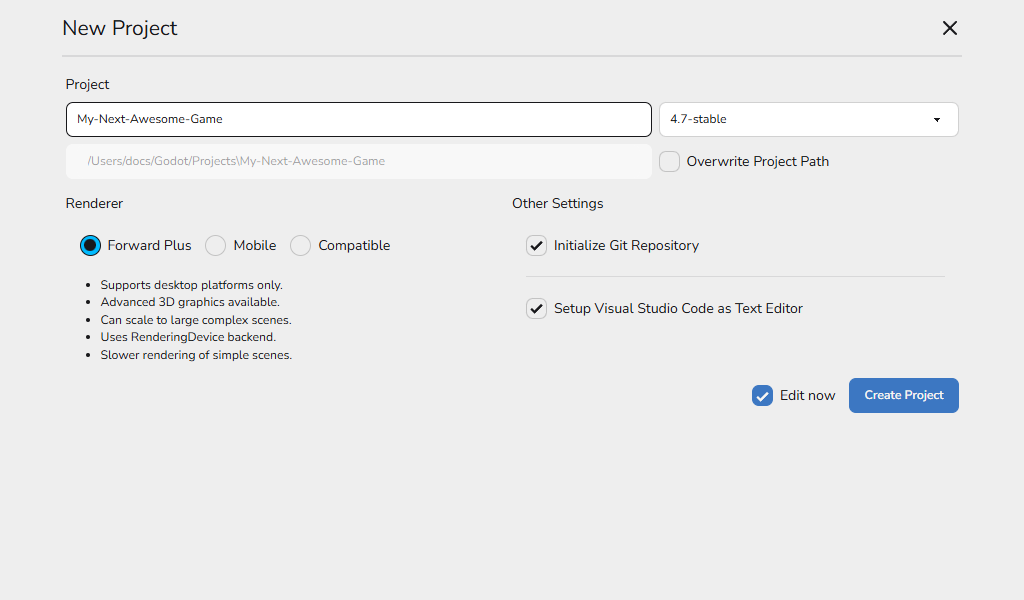
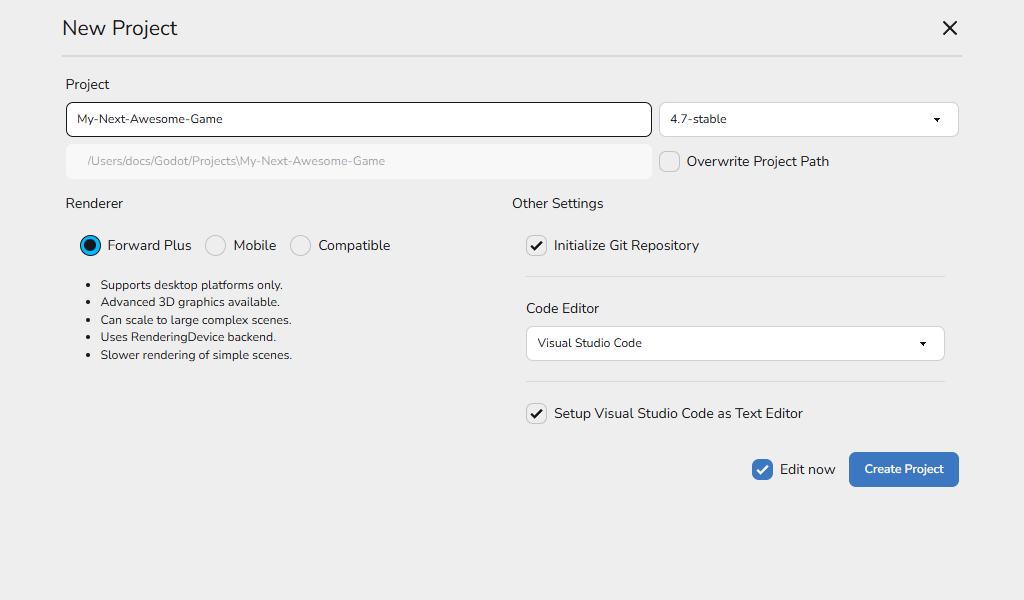
feat(projects): add code editor selection to project creation

Changed region(s): [[0.5312, 0.63, 0.9375, 0.72], [0.5, 0.51, 0.7812, 0.6], [0.7188, 0.75, 0.9375, 0.81]]

diff --git a/renderer/src/views/subViews/createProject.subview.tsx b/renderer/src/views/subViews/createProject.subview.tsx
@@ -1,14 +1,23 @@
-import type { CachedTool, RendererType } from '@shared/contracts';
+import type {
+    CachedTool,
+    CodeEditorIntegrationSettings,
+    RendererType,
+} from '@shared/contracts';
 import { CircleHelp, X } from 'lucide-react';
 import { useCallback, useEffect, useMemo, useRef, useState } from 'react';
 import { useTranslation } from 'react-i18next';
 import { appBridge } from '../../bridge.ts';
 import { WaitingForDialogOverlay } from '../../components/waitingForDialogOverlay.component';
 import { useAlerts } from '../../hooks/useAlerts';
+import { useCodeEditorIntegrations } from '../../hooks/useCodeEditorIntegrations';
 import { useFileSystem } from '../../hooks/useFileSystem';
 import { usePreferences } from '../../hooks/usePreferences';
 import { useProjects } from '../../hooks/useProjects';
 import { useRelease } from '../../hooks/useRelease';
+import {
+    codeEditorIdToLegacyVSCodeFlag,
+    legacyVSCodeFlagToCodeEditorId,
+} from '../../models/codeEditorIntegration.model';
 import { CreateProjectActions } from './createProject/components/createProjectActions.component';
 import { CreateProjectProjectSection } from './createProject/components/createProjectProjectSection.component';
 import { CreateProjectRendererSection } from './createProject/components/createProjectRendererSection.component';
@@ -47,6 +56,10 @@ export const CreateProjectSubView: React.FC<SubViewProps> = ({ onClose }) => {
     const [withGit, setWithGit] = useState<boolean>(true);
     const [withVSCode, setWithVSCode] = useState<boolean>(true);
     const [loadingTools, setLoadingTools] = useState<boolean>(true);
+    const [codeEditorSettings, setCodeEditorSettings] = useState<
+        CodeEditorIntegrationSettings[]
+    >([]);
+    const [loadingCodeEditors, setLoadingCodeEditors] = useState<boolean>(true);
     const inputNameRef = useRef<HTMLInputElement>(null);
     const overwritePathCheckRequestRef = useRef<number>(0);
     const overwriteBasePathInitializedRef = useRef<boolean>(false);
@@ -55,6 +68,7 @@ export const CreateProjectSubView: React.FC<SubViewProps> = ({ onClose }) => {
     const { installedReleases, downloadingReleases } = useRelease();
     const { createProject, launchProject } = useProjects();
     const { pathExists } = useFileSystem();
+    const { listIntegrationSettings } = useCodeEditorIntegrations();
     const { preferences, platform } = usePreferences();
     const pathSeparator = platform === 'win32' ? '\\' : '/';
     const defaultOverwriteBasePath = preferences?.projects_location ?? '';
@@ -253,12 +267,38 @@ export const CreateProjectSubView: React.FC<SubViewProps> = ({ onClose }) => {
     }, []);
 
     useEffect(() => {
-        if (tools.length === 0) return;
+        let active = true;
+
+        listIntegrationSettings()
+            .then((settings) => {
+                if (active) {
+                    setCodeEditorSettings(settings);
+                }
+            })
+            .catch(() => {
+                if (active) {
+                    setCodeEditorSettings([]);
+                }
+            })
+            .finally(() => {
+                if (active) {
+                    setLoadingCodeEditors(false);
+                }
+            });
+
+        return () => {
+            active = false;
+        };
+    }, [listIntegrationSettings]);
+
+    useEffect(() => {
+        if (loadingTools) return;
+
         const hasGit = hasTool('Git');
         const hasVSCode = hasTool('VSCode');
         setWithGit(hasGit);
         setWithVSCode(hasVSCode);
-    }, [hasTool, tools]);
+    }, [hasTool, loadingTools]);
 
     const showVSCodeHelp = () => {
         addAlert(
@@ -363,8 +403,20 @@ export const CreateProjectSubView: React.FC<SubViewProps> = ({ onClose }) => {
                             vsCodeAvailable={vsCodeAvailable}
                             withGit={withGit}
                             withVSCode={withVSCode}
+                            loadingCodeEditors={loadingCodeEditors}
                             onWithGitChange={setWithGit}
                             onWithVSCodeChange={setWithVSCode}
+                            codeEditorSettings={codeEditorSettings}
+                            codeEditorId={legacyVSCodeFlagToCodeEditorId(
+                                withVSCode,
+                            )}
+                            onCodeEditorIdChange={(codeEditorId) =>
+                                setWithVSCode(
+                                    codeEditorIdToLegacyVSCodeFlag(
+                                        codeEditorId,
+                                    ),
+                                )
+                            }
                             onVSCodeHelp={showVSCodeHelp}
                         />
                     </div>

diff --git a/renderer/src/views/subViews/createProject/components/createProjectToolOptionsSection.component.tsx b/renderer/src/views/subViews/createProject/components/createProjectToolOptionsSection.component.tsx
@@ -1,3 +1,7 @@
+import type {
+    CodeEditorId,
+    CodeEditorIntegrationSettings,
+} from '@shared/contracts';
 import clsx from 'clsx';
 import { CircleHelp } from 'lucide-react';
 import type React from 'react';
@@ -7,11 +11,15 @@ type Translate = (key: string) => string;
 type CreateProjectToolOptionsSectionProps = {
     t: Translate;
     loadingTools: boolean;
+    loadingCodeEditors: boolean;
     gitAvailable: boolean;
     vsCodeAvailable: boolean;
+    codeEditorSettings: CodeEditorIntegrationSettings[];
+    codeEditorId: CodeEditorId | null;
     withGit: boolean;
     withVSCode: boolean;
     onWithGitChange: (enabled: boolean) => void;
+    onCodeEditorIdChange: (codeEditorId: CodeEditorId | null) => void;
     onWithVSCodeChange: (enabled: boolean) => void;
     onVSCodeHelp: () => void;
 };
@@ -21,26 +29,30 @@ export const CreateProjectToolOptionsSection: React.FC<
 > = ({
     t,
     loadingTools,
+    loadingCodeEditors,
     gitAvailable,
     vsCodeAvailable,
+    codeEditorSettings,
+    codeEditorId,
     withGit,
     withVSCode,
     onWithGitChange,
     onWithVSCodeChange,
+    onCodeEditorIdChange,
     onVSCodeHelp,
 }) => (
     <div className="flex-1">
         <div className="flex flex-col gap-2">
             <h2 className="text-md flex items-center gap-4">
                 {t('otherSettings.title')}{' '}
-                {loadingTools && (
+                {(loadingTools || loadingCodeEditors) && (
                     <span className="loading loading-dots loading-xs"></span>
                 )}
             </h2>
 
             <div
                 className={clsx('flex flex-col gap-4 p-4 ', {
-                    invisible: loadingTools,
+                    invisible: loadingTools || loadingCodeEditors,
                 })}
             >
                 <label className="flex cursor-pointer gap-2 items-center">
@@ -63,6 +75,45 @@ export const CreateProjectToolOptionsSection: React.FC<
 
                 <div className="divider m-0"></div>
 
+                <label className="flex flex-col gap-2">
+                    <span>{t('otherSettings.codeEditor.label')}</span>
+                    <select
+                        data-testid="selectCreateProjectCodeEditor"
+                        className="select select-bordered w-full"
+                        disabled={loadingCodeEditors}
+                        value={codeEditorId ?? ''}
+                        onChange={(event) =>
+                            onCodeEditorIdChange(
+                                event.target.value === ''
+                                    ? null
+                                    : (event.target.value as CodeEditorId),
+                            )
+                        }
+                    >
+                        <option value="">
+                            {t('otherSettings.codeEditor.none')}
+                        </option>
+                        {codeEditorSettings.map((settings) => {
+                            const unavailableReason = !settings.enabled
+                                ? t('otherSettings.codeEditor.disabled')
+                                : settings.installation
+                                  ? null
+                                  : t('otherSettings.codeEditor.notFound');
+
+                            return (
+                                <option
+                                    key={settings.integration.id}
+                                    value={settings.integration.id}
+                                    disabled={unavailableReason !== null}
+                                >
+                                    {`${settings.integration.displayName}${unavailableReason ? ` (${unavailableReason})` : ''}`}
+                                </option>
+                            );
+                        })}
+                    </select>
+                </label>
+
+                <div className="divider m-0"></div>
                 <label className="flex cursor-pointer gap-2 items-center">
                     <input
                         type="checkbox"

diff --git a/renderer/src/views/subViews/createProject/components/createProjectToolOptionsSection.component.test.tsx b/renderer/src/views/subViews/createProject/components/createProjectToolOptionsSection.component.test.tsx
@@ -1,0 +1,109 @@
+import type { CodeEditorIntegrationSettings } from '@shared/contracts';
+import { renderToStaticMarkup } from 'react-dom/server';
+import { describe, expect, it, vi } from 'vitest';
+import { CreateProjectToolOptionsSection } from './createProjectToolOptionsSection.component';
+
+const labels: Record<string, string> = {
+    'otherSettings.title': 'Other Settings',
+    'otherSettings.initGit': 'Initialize Git Repository',
+    'otherSettings.gitNotInstalled': 'Git is not installed',
+    'otherSettings.codeEditor.label': 'Code Editor',
+    'otherSettings.codeEditor.none': 'None',
+    'otherSettings.codeEditor.disabled': 'Disabled',
+    'otherSettings.codeEditor.notFound': 'Not found',
+    'otherSettings.setupVSCode': 'Setup Visual Studio Code as Text Editor',
+    'otherSettings.vscodeNotInstalled': 'Visual Studio Code is not installed',
+};
+
+const availableVSCodeSettings: CodeEditorIntegrationSettings = {
+    integration: {
+        id: 'vscode',
+        displayName: 'Visual Studio Code',
+        capabilities: {
+            textEditor: true,
+            dotnet: true,
+        },
+    },
+    enabled: true,
+    customPath: null,
+    defaultExecFlags: '{project} --goto {file}:{line}:{col}',
+    execFlagsOverride: null,
+    resolvedExecFlags: '{project} --goto {file}:{line}:{col}',
+    installation: {
+        integrationId: 'vscode',
+        path: '/usr/bin/code',
+        version: '1.95.0',
+    },
+    resolvedGodotExecPath: '/usr/bin/code',
+};
+
+const t = (key: string) => labels[key] ?? key;
+
+function renderSection(
+    codeEditorSettings: CodeEditorIntegrationSettings[],
+    codeEditorId: 'vscode' | null,
+) {
+    return renderToStaticMarkup(
+        <CreateProjectToolOptionsSection
+            t={t}
+            loadingTools={false}
+            loadingCodeEditors={false}
+            gitAvailable
+            vsCodeAvailable
+            codeEditorSettings={codeEditorSettings}
+            codeEditorId={codeEditorId}
+            withGit
+            withVSCode={codeEditorId === 'vscode'}
+            onWithGitChange={vi.fn()}
+            onCodeEditorIdChange={vi.fn()}
+            onWithVSCodeChange={vi.fn()}
+            onVSCodeHelp={vi.fn()}
+        />,
+    );
+}
+
+describe('CreateProjectToolOptionsSection', () => {
+    it('renders an editor-neutral selector beside the legacy VS Code option', () => {
+        const html = renderSection([availableVSCodeSettings], 'vscode');
+
+        expect(html).toContain('data-testid="selectCreateProjectCodeEditor"');
+        expect(html).toContain('<option value="">None</option>');
+        expect(html).toContain(
+            '<option value="vscode" selected="">Visual Studio Code</option>',
+        );
+        expect(html).toContain('Setup Visual Studio Code as Text Editor');
+    });
+
+    it('keeps disabled integrations visible but unavailable to select', () => {
+        const html = renderSection(
+            [
+                {
+                    ...availableVSCodeSettings,
+                    enabled: false,
+                },
+            ],
+            null,
+        );
+
+        expect(html).toContain(
+            '<option value="vscode" disabled="">Visual Studio Code (Disabled)</option>',
+        );
+    });
+
+    it('keeps missing integrations visible but unavailable to select', () => {
+        const html = renderSection(
+            [
+                {
+                    ...availableVSCodeSettings,
+                    installation: null,
+                    resolvedGodotExecPath: null,
+                },
+            ],
+            null,
+        );
+
+        expect(html).toContain(
+            '<option value="vscode" disabled="">Visual Studio Code (Not found)</option>',
+        );
+    });
+});

diff --git a/e2e/documentationScreenshots/screenshots.projects.ts b/e2e/documentationScreenshots/screenshots.projects.ts
@@ -9,10 +9,13 @@ import {
     showProjectsDropOverlay,
     stubAddProjectEditorResolution,
     stubAddProjectRecoveredVSCodeConfig,
+    stubCodeEditorIntegrationSettings,
     stubInstalledTools,
 } from './runtime';
 import {
     DEFAULT_TOOLS,
+    SAMPLE_VSCODE_SETTINGS_AVAILABLE,
+    SAMPLE_VSCODE_SETTINGS_NOT_FOUND,
     SAMPLE_AVAILABLE_RELEASES_WITH_EDITOR_RESOLUTION,
     SAMPLE_CUSTOM_RELEASE,
     SAMPLE_INSTALLED_RELEASES_WITH_CUSTOM,
@@ -349,6 +352,9 @@ export const PROJECT_SCREENSHOTS: ScreenshotConfig[] = [
         ) => {
             await stubInstalledTools(electronApp, DEFAULT_TOOLS);
             await page.getByTestId('btnProjects').click();
+            await stubCodeEditorIntegrationSettings(electronApp, [
+                SAMPLE_VSCODE_SETTINGS_AVAILABLE,
+            ]);
             await page.getByTestId('btnProjectCreate').click();
             await page
                 .getByTestId('inputProjectName')
@@ -377,6 +383,9 @@ export const PROJECT_SCREENSHOTS: ScreenshotConfig[] = [
             });
             await stubInstalledTools(electronApp, DEFAULT_TOOLS);
             await applyTheme(page, theme);
+            await stubCodeEditorIntegrationSettings(electronApp, [
+                SAMPLE_VSCODE_SETTINGS_AVAILABLE,
+            ]);
             await page.getByTestId('btnProjects').click();
             await page.getByTestId('btnProjectCreate').click();
             await page
@@ -425,6 +434,9 @@ export const PROJECT_SCREENSHOTS: ScreenshotConfig[] = [
         ) => {
             await stubInstalledTools(electronApp, TOOLS_NO_GIT);
             await page.getByTestId('btnProjects').click();
+            await stubCodeEditorIntegrationSettings(electronApp, [
+                SAMPLE_VSCODE_SETTINGS_AVAILABLE,
+            ]);
             await page.getByTestId('btnProjectCreate').click();
             await page
                 .getByTestId('inputProjectName')
@@ -449,6 +461,9 @@ export const PROJECT_SCREENSHOTS: ScreenshotConfig[] = [
         ) => {
             await stubInstalledTools(electronApp, TOOLS_NO_VSCODE);
             await page.getByTestId('btnProjects').click();
+            await stubCodeEditorIntegrationSettings(electronApp, [
+                SAMPLE_VSCODE_SETTINGS_NOT_FOUND,
+            ]);
             await page.getByTestId('btnProjectCreate').click();
             await page
                 .getByTestId('inputProjectName')
@@ -473,6 +488,9 @@ export const PROJECT_SCREENSHOTS: ScreenshotConfig[] = [
         ) => {
             await stubInstalledTools(electronApp, TOOLS_NONE);
             await page.getByTestId('btnProjects').click();
+            await stubCodeEditorIntegrationSettings(electronApp, [
+                SAMPLE_VSCODE_SETTINGS_NOT_FOUND,
+            ]);
             await page.getByTestId('btnProjectCreate').click();
             await page
                 .getByTestId('inputProjectName')
@@ -497,6 +515,9 @@ export const PROJECT_SCREENSHOTS: ScreenshotConfig[] = [
         ) => {
             await stubInstalledTools(electronApp, DEFAULT_TOOLS);
             await page.getByTestId('btnProjects').click();
+            await stubCodeEditorIntegrationSettings(electronApp, [
+                SAMPLE_VSCODE_SETTINGS_AVAILABLE,
+            ]);
             await page.getByTestId('btnProjectCreate').click();
             await page
                 .getByTestId('inputProjectName')
